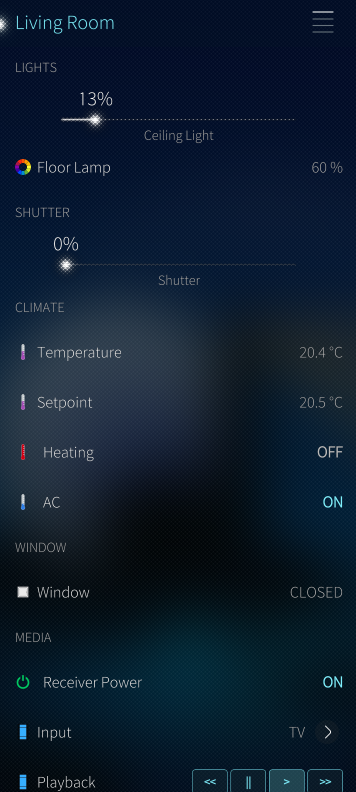
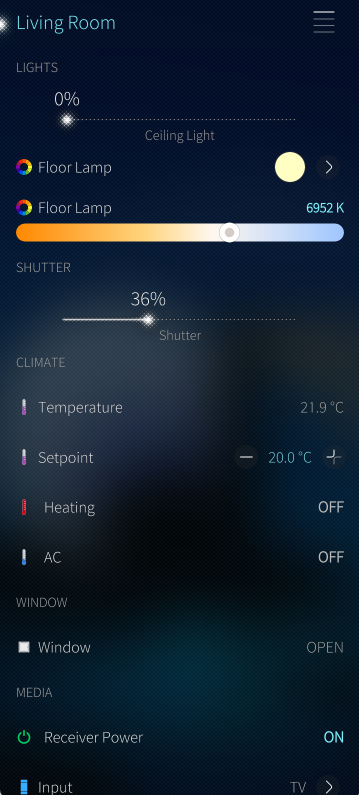
- Updated images and documentation for new version.

diff --git a/docs/USAGE.md b/docs/USAGE.md
@@ -19,21 +19,23 @@ The app follows the basic principles of the other openHAB UIs, like Basic UI, an
 ## Features
 
 - Demo Mode: Explore the app without connecting to an openHAB server
+- Local authentification supported - if enabled on openHAB server.
 - Display your Main UI Webview
 - Display your sitemaps and widgets and control your devices from your mobile device
-- Supported widgets/element-types within sitemap: Frame, Text, Group, Switch, Switches with Button-Mappings, Selections, Slider, Rollershutter
-- Customizable CoverActions via Settings
+- Supported widgets/element-types within sitemap: Frame, Text, Group, Switch, Switches with Button-Mappings, Selections, Slider, Rollershutter, Colorpicker, Setpoint, Image, Mapview, Input, Webview, Video, Colortemperaturepicker, Buttongrid, Chart
+- Customizable CoverAction-Buttons via Settings
+- Customizable CoverPage (display of max. 2 item states) via Settings
 
 <div class="row">
   <img src="images/main-ui.png" alt="Main UI" width="200">
-  <img src="images/sitemap-1.png" alt="Settings" width="200">
+  <img src="images/sitemap-1.png" alt="Sitemap view" width="200">
   <img src="images/sitemap-2.png" alt="Sitemap view" width="200">
 </div>
 
 ## App Configuration
 
 <p float="left">
-<img src="images/settings.png" alt="Settings" width="200">
+<img src="images/settings-1.png" alt="Settings" width="200">
 </p>
 
 ### Connection Settings
@@ -46,19 +48,24 @@ Disable this to use the app with your own openHAB instance.
 
 #### Local Server
 
-This is the primary connection to your openHAB instance, a fully qualified URL with an IP address or hostname is required.
+- URL: This is the primary connection to your openHAB instance, a fully qualified URL with an IP address or hostname is required.
 
 Example:
 `http://192.168.0.10:8080`
 `https://testdomain.com`
 
+- Username: The username of your openHAB user (if authentication is enabled on your openHAB server).
+- Password: The password of your openHAB user (if authentication is enabled on your openHAB server). Your password will be stored securely and encrypted on your device and is not shared with anyone.
+
 ### Cover Actions
 
 Allows you to set custom App-Cover-Quick-Actions for the cover widget when you view all open applications.
 
-<p float="left">
-<img src="images/cover-with-coveractions.png" alt="Cover with coveractions" width="200">
-</p>
+<div class="row">
+  <img src="images/cover-with-coveractions.png" alt="Cover with coveractions" width="200">
+  <img src="images/settings-1.png" alt="Settings" width="200">
+  <img src="images/settings-2.png" alt="Settings" width="200">
+</div>
 
 - Left button - Item-ID: The [Name](https://www.openhab.org/docs/configuration/items.html#name) (Item-ID -- **not** the label) of the item you want to send a command to when the left button is pressed.
 - Left button - Command: The command (eg. ON, OFF, UP, DOWN) you want to send to the item when the left button is pressed.
@@ -68,6 +75,24 @@ Allows you to set custom App-Cover-Quick-Actions for the cover widget when you v
 Note: If you don't want to use App-Cover-Quick-Actions, please leave the fields empty.
 You can also use one button only, just leave the other button configuration empty.
 It will be deactivated if no Item-ID AND command is provided.
+
+### Cover Items
+
+Allows you to set two items for app cover display. The state of these items will be displayed on the app cover when you view all open applications.
+
+<div class="row">
+  <img src="images/cover-with-coveractions.png" alt="Cover with coveractions" width="200">
+  <img src="images/settings-1.png" alt="Settings" width="200">
+  <img src="images/settings-2.png" alt="Settings" width="200">
+</div>
+
+- Item-ID: The [Name](https://www.openhab.org/docs/configuration/items.html#name) (Item-ID -- **not** the label) of the item you want display on the app cover.
+- Item-ID: The [Name](https://www.openhab.org/docs/configuration/items.html#name) (Item-ID -- **not** the label) of the item you want display on the app cover.
+- Item-refresh-interval: The interval in milliseconds in which the app should refresh the state of the items for display on the cover.
+
+Note: If you don't want to display item values on your app cover, please leave the fields empty.
+You can also use one item only, just leave the other item configuration empty.
+
 
 ## Navigation, Main UI and Sitemap Usage
 
@@ -81,6 +106,10 @@ Tap the hamburger menu at the top right to open the menu and navigate to the Mai
 Pull-Up: Use the native [Pulley Menu](https://docs.sailfishos.org/Develop/Apps/UI/#gestures-for-navigation-and-actions) gesture:
 
 - Scroll to top: Scrolls to the top of the current view.
+
+Pull-Down: Use the native [Pulley Menu](https://docs.sailfishos.org/Develop/Apps/UI/#gestures-for-navigation-and-actions) gesture:
+
+- Refresh Sitemap: Will load current sitemap again and update all item states. Only needed if you change your sitemap structure on openHAB server and want to see the changes in the app without switching to another sitemap and back again.
 
 ## Contributing to the project
 

diff --git a/docs/DEV-GUIDE.md b/docs/DEV-GUIDE.md
@@ -48,6 +48,13 @@ If you want to contribute translations, please submit them as pull requests agai
   - Go back, click Add file -> Create new file
   - Enter openHAB-xx.ts replacing xx with your language code as the name. For example, de for german
   - Paste the copied file in the new file's contents
+  - Add new translation file to the project by adding the following line to [harbour-openhab.pro](/harbour-openhab.pro):
+
+    ```pro
+    TRANSLATIONS += translations/openHAB-xx.ts
+    ```
+
+   replacing xx with your language code as the name. For example, de for german.
 - replace:
 
   ```xml
@@ -131,6 +138,15 @@ sfdk build
 ```
 
 Repeat with `armv7hl` and `i486` targets to produce all three packages.
+
+## Add new widget/element type support
+
+If openHAB server adds support for a new widget/element type in the [sitemap](https://www.openhab.org/docs/ui/sitemaps.html), we need to develop and add the widget for the app as well.
+- Go to [SitemapPage.qml](/pages/SitemapPage.qml), scroll to the bottom of the page and copy one existing "component" block (eg. for Switch, Text, etc.) and paste it at the end of the last component.
+- Change the component-id to the new widget/element type and change the content based on your needs.
+- Add new component to 'componentLoader' in the same file (SitemapPage.qml) to make sure it is loaded when the app encounters the new widget/element type in the sitemap.
+- Add the new widget/element type to the list of supported types in [README.md](/README.md) and [USAGE.md](/docs/USAGE.md) and update the screenshots if needed.
+
 
 ## Checks to be done before submitting a pull request
 

diff --git a/README.md b/README.md
@@ -19,14 +19,14 @@ The documentation is available at [www.openhab.org/docs/](https://www.openhab.or
 ## Features
 
 - Demo Mode: Explore the app without connecting to an openHAB server
-- Local authentification - if enabled on openHAB server.
+- Local authentification supported - if enabled on openHAB server.
 - Display your Main UI Webview
 - Display your sitemaps and widgets and control your devices from your mobile device
 - Supported widgets/element-types within sitemap: Frame, Text, Group, Switch, Switches with Button-Mappings, Selections, Slider, Rollershutter, Colorpicker, Setpoint, Image, Mapview, Input, Webview, Video, Colortemperaturepicker, Buttongrid, Chart
 - Customizable CoverAction-Buttons via Settings
 - Customizable CoverPage (display of max. 2 item states) via Settings
 
-<img src="docs/images/main-ui.png" alt="Main UI" width=200px> <img src="docs/images/sitemap-1.png" alt="Settings" width=200px> <img src="docs/images/sitemap-2.png" alt="Sitemap view" width=200px>
+<img src="docs/images/main-ui.png" alt="Main UI" width=200px> <img src="docs/images/sitemap-1.png" alt="sitemap view" width=200px> <img src="docs/images/sitemap-2.png" alt="Sitemap view" width=200px>
 
 For more screenshots, see [docs/images/](docs/images/) in the GitHub repository.
 
@@ -37,7 +37,7 @@ For more screenshots, see [docs/images/](docs/images/) in the GitHub repository.
 
 ## Roadmap
 
-- Version 0.0.4 (planned):
+- Version 1.0.0 (planned):
   - Add support for remote access (via openHAB cloud)
   - Add App Notifications (via openHAB cloud)
   - Add support for openHAB tiles (HABPanel, Basic UI, etc.)
